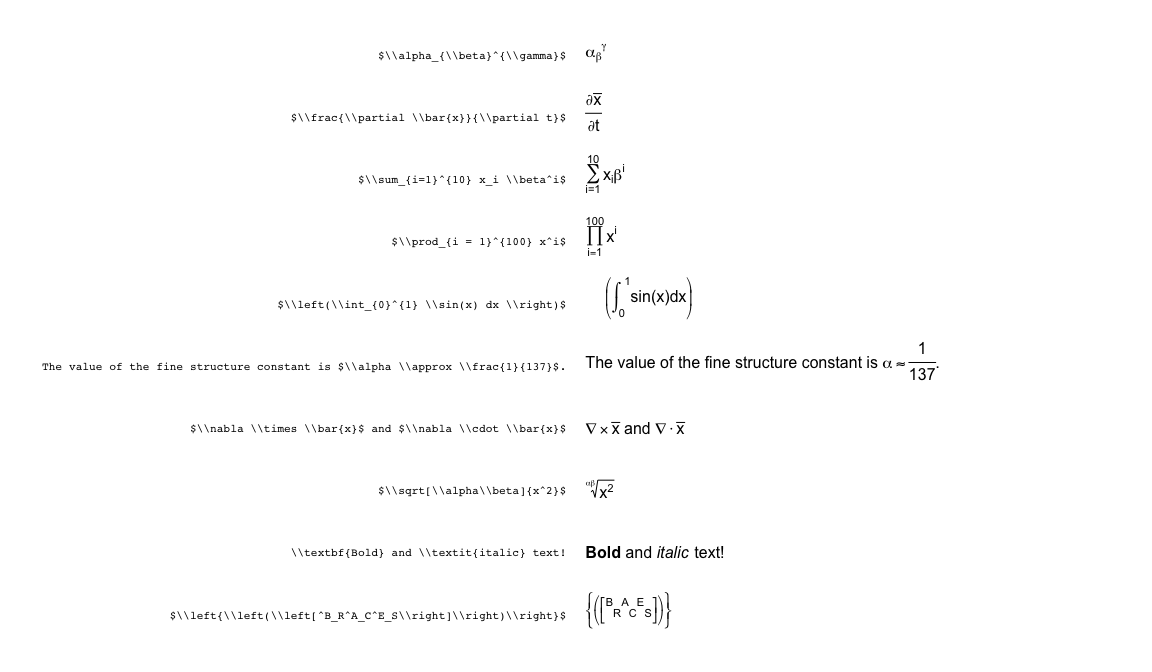
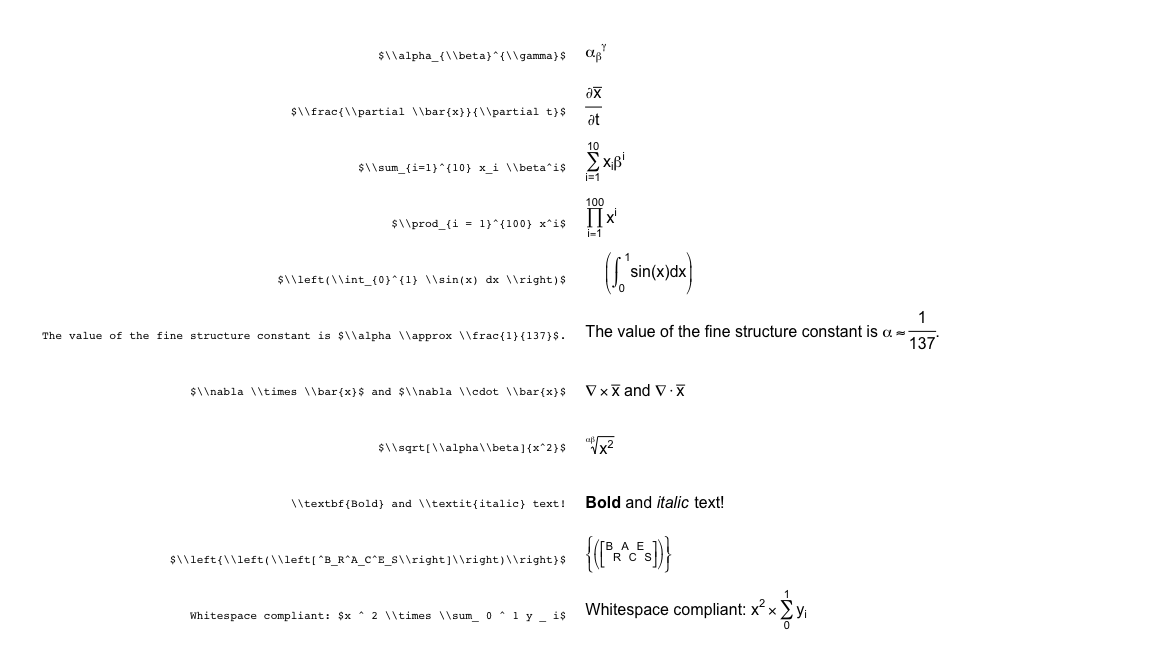
Updated README

diff --git a/README.md b/README.md
@@ -78,9 +78,6 @@ plot(latex2exp("A $\\LaTeX$ formula: $\\frac{2hc^2}{\\lambda^5} \\,
 
 ![](README_files/figure-markdown_github/unnamed-chunk-6-1.png)
 
-Installation
-------------
-
 Syntax
 ------
 
@@ -146,11 +143,15 @@ latex2exp_examples()
 Changes
 -------
 
-### 0.3 [06/30/2015]
+### 0.3.1 [07/02/2015]
+
+Fixes bug \#2 (white space causes unexpected behaviour). `latex2exp` should now be a bit more compliant with how LaTeX handles whitespace.
+
+### 0.3.0 [06/30/2015]
 
 `latex2exp` is now a proper package.
 
-### 0.2 [06/29/2015]
+### 0.2.0 [06/29/2015]
 
 Formulas must now be enclosed between dollar characters ($), as in LaTeX proper. Text does not need to be enclosed in \\text tags anymore.
 
